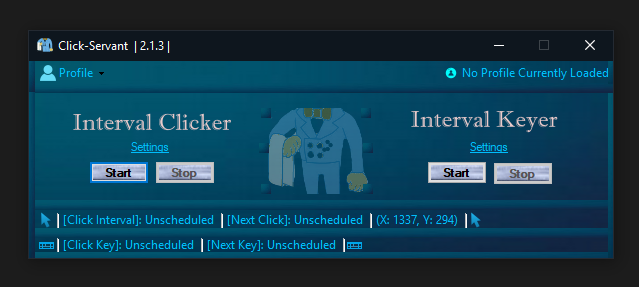
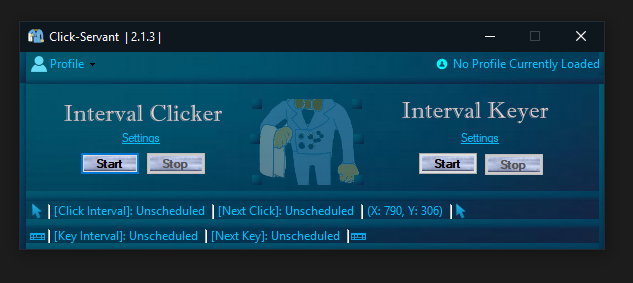
Fix mispell and update exe/screenshot 1

diff --git a/Click-Servant/MyForm.h b/Click-Servant/MyForm.h
@@ -1254,7 +1254,7 @@ namespace PRATHTool {
 			break;
 		case false:
 			nextKeyTSLabel->Text = "[Next Key]: Unscheduled";
-			keyIntervalTSLabel->Text = "[Click Key]: Unscheduled";
+			keyIntervalTSLabel->Text = "[Key Interval]: Unscheduled";
 			break;
 		}
 
